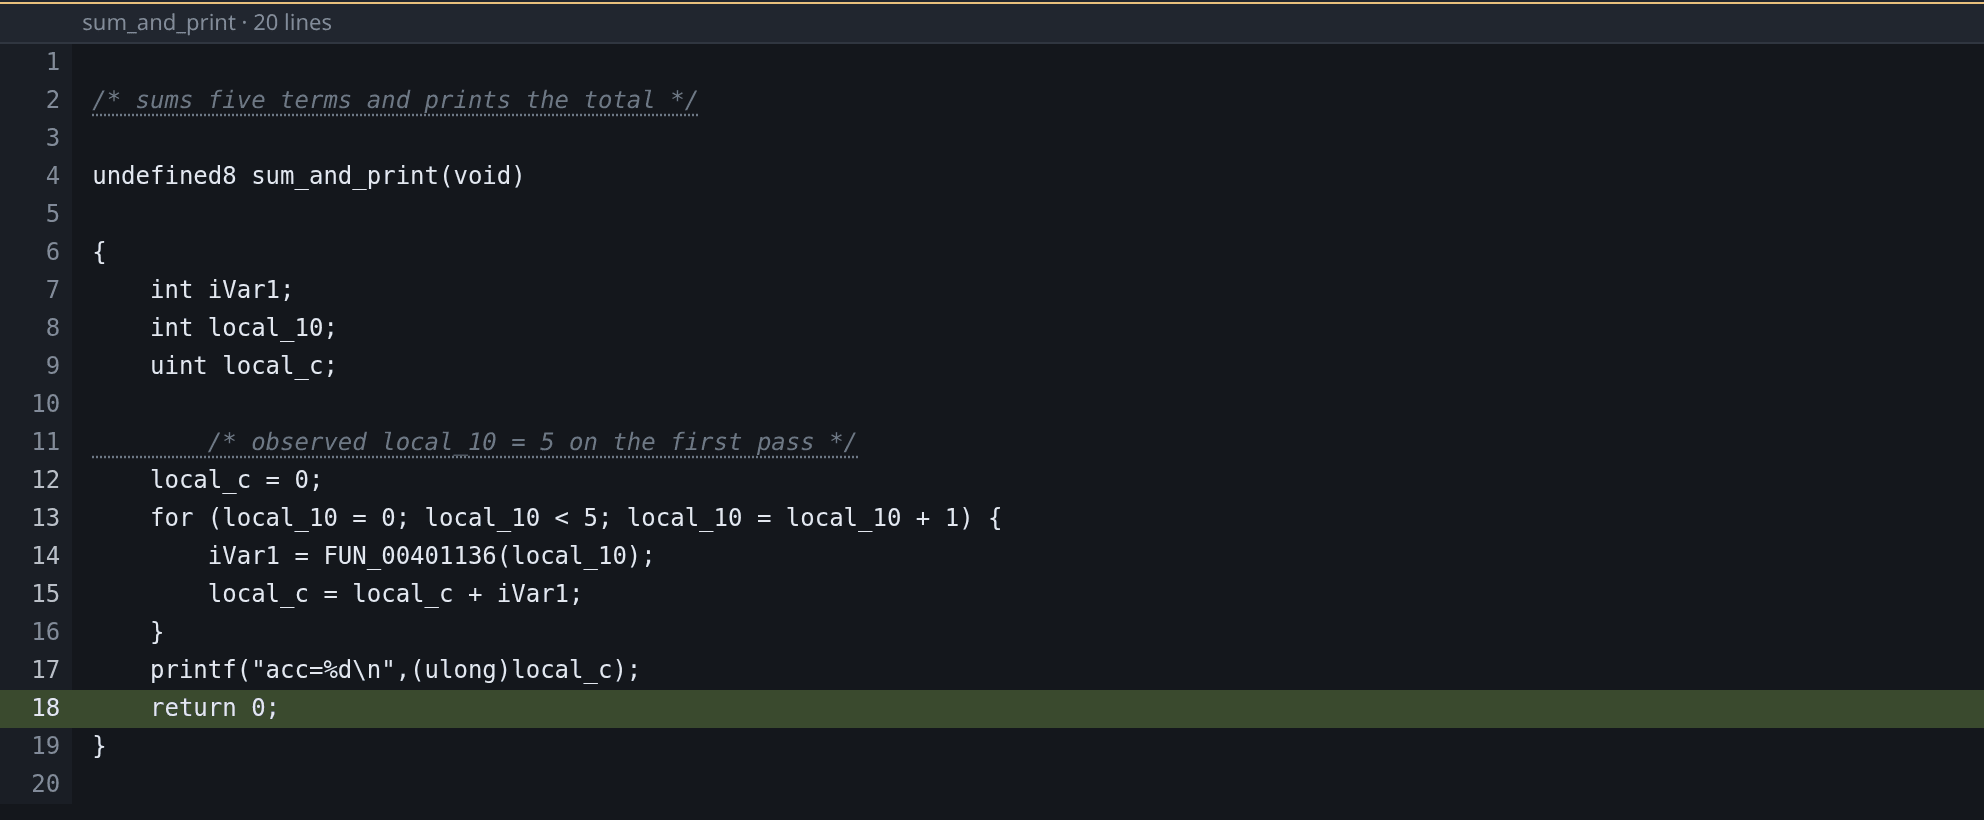
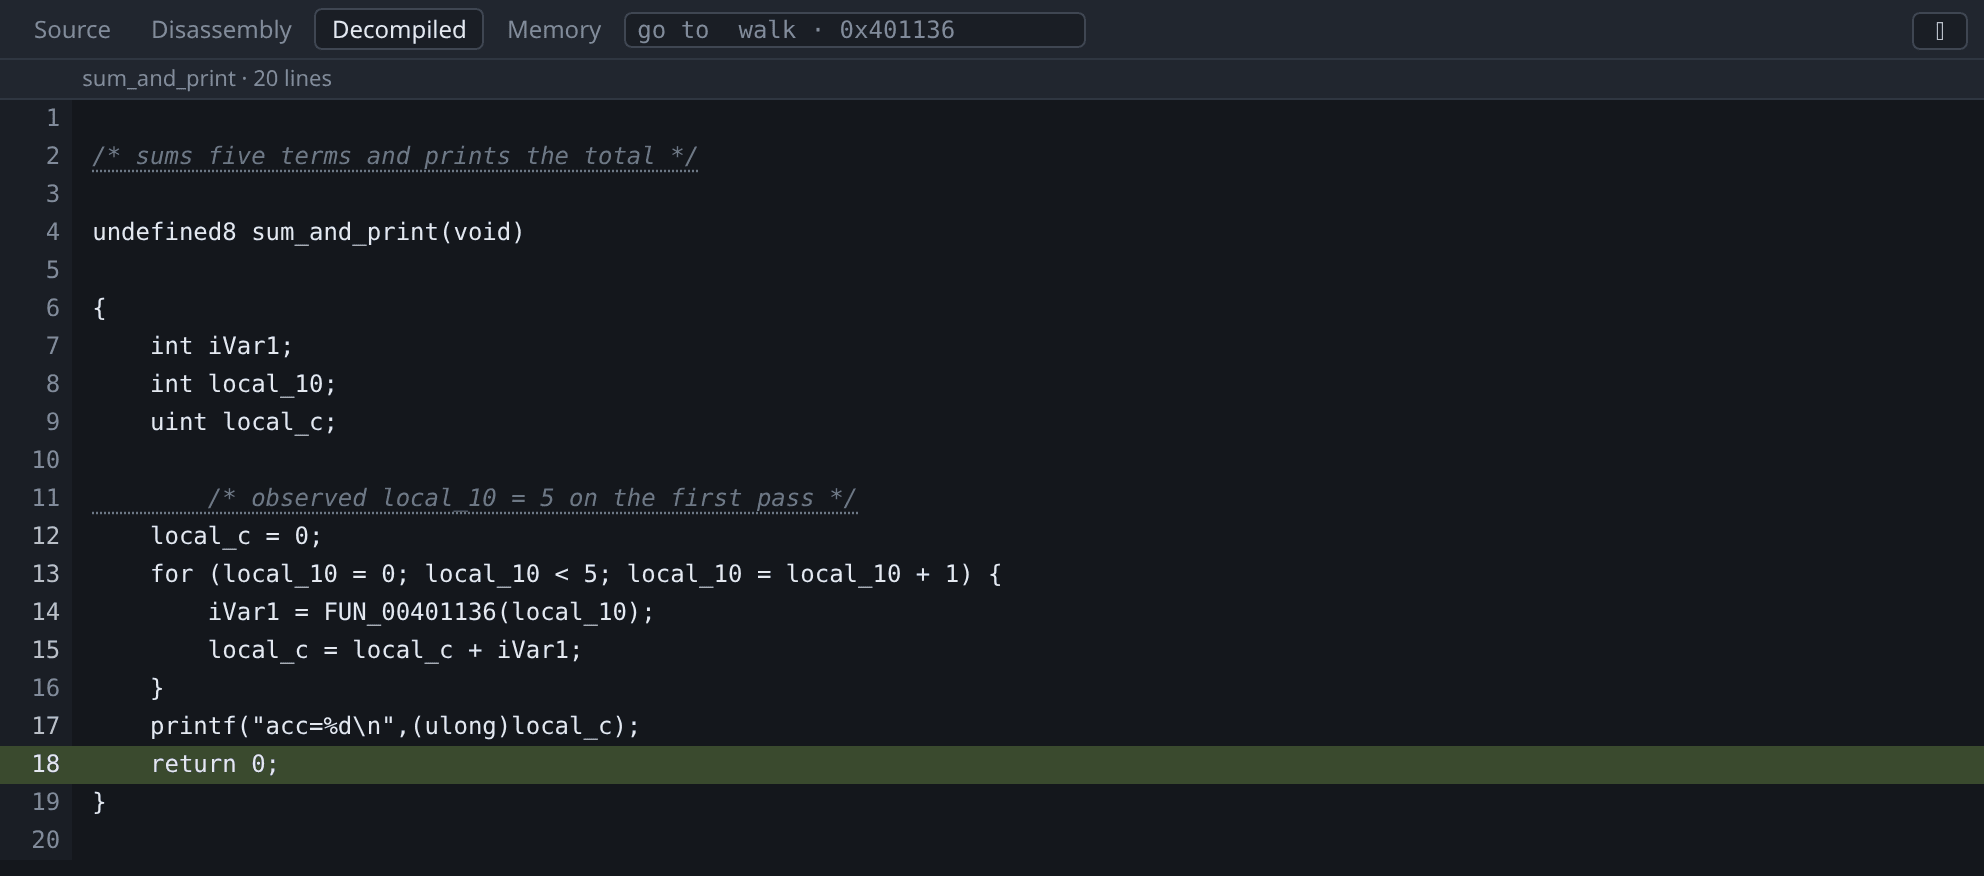
Drop the offer to find a source file when the frame changes
Stopping in libc raises a bar across the top of the centre pane: "No
local source for ./stdio-common/printf.c". Click down to a frame of your
own program — a stripped one, with no source file of any kind — and the
bar stayed, still naming printf.c, still offering to locate a file
nothing on screen was about.

It was raised on every stop and never again. The offer now follows the
selected frame, because the file it is about does: a stack routinely
mixes a frame whose source is here, one whose file is on a machine you
have not got, and one with no file at all, and clicking between them
changes which of the three you are looking at. Selecting a frame that
does have a missing file now offers to find *that* one, which is the
case the bar was written for and never reached.

Found while photographing the agent scene, where it sat over recovered C
that had just been annotated. That scene now asserts both halves — the
bar appears when the program stops in printf, and is gone once the
program's own frame is selected — so the screenshot no longer has to be
cropped around it.

Claude-Session: https://claude.ai/code/session_0114MG2ZohTJwSYsQcBZG8fo

diff --git a/internal/assets/web/js/main.js b/internal/assets/web/js/main.js
@@ -1202,6 +1202,14 @@ function applySelection(sel) {
   if (sel.threadId) threads.select(sel.threadId);
 
   const frame = stack.frameAt(sel.frame);
+  // The offer to find a source file follows the selection, because the file it
+  // is about does. A stack routinely mixes all three cases: a frame whose
+  // source is here, one whose file exists somewhere this machine has not got,
+  // and one from a stripped binary with no file at all. Raised only on a stop,
+  // the bar went on naming frame 0's file — "No local source for
+  // ./stdio-common/printf.c" across the top of a stripped function you had
+  // clicked on purpose, offering to locate a file nothing on screen is about.
+  showLocate(frame?.source);
   if (frame?.source?.available) {
     // Frame 0 is where the program counter is; anything above it is a caller
     // being inspected, and gets its own marker so the execution point stays

diff --git a/docs/features/source.md b/docs/features/source.md
@@ -113,6 +113,12 @@ names a file that is not present, gdb-wui shows a bar offering the files in your
 project whose names match. Choosing one tells gdb about the substitution for
 every file under that directory, not only the one you chose.
 
+The offer follows the selected frame, because the file it is about does. A stack
+routinely mixes all three cases — a frame whose source is here, one whose file
+is on a machine you do not have, and one from a stripped binary with no file at
+all — and clicking between them changes which, if any, there is anything to
+offer.
+
 ## What the source view does not do
 
 - **It does not edit.** There is no save.
